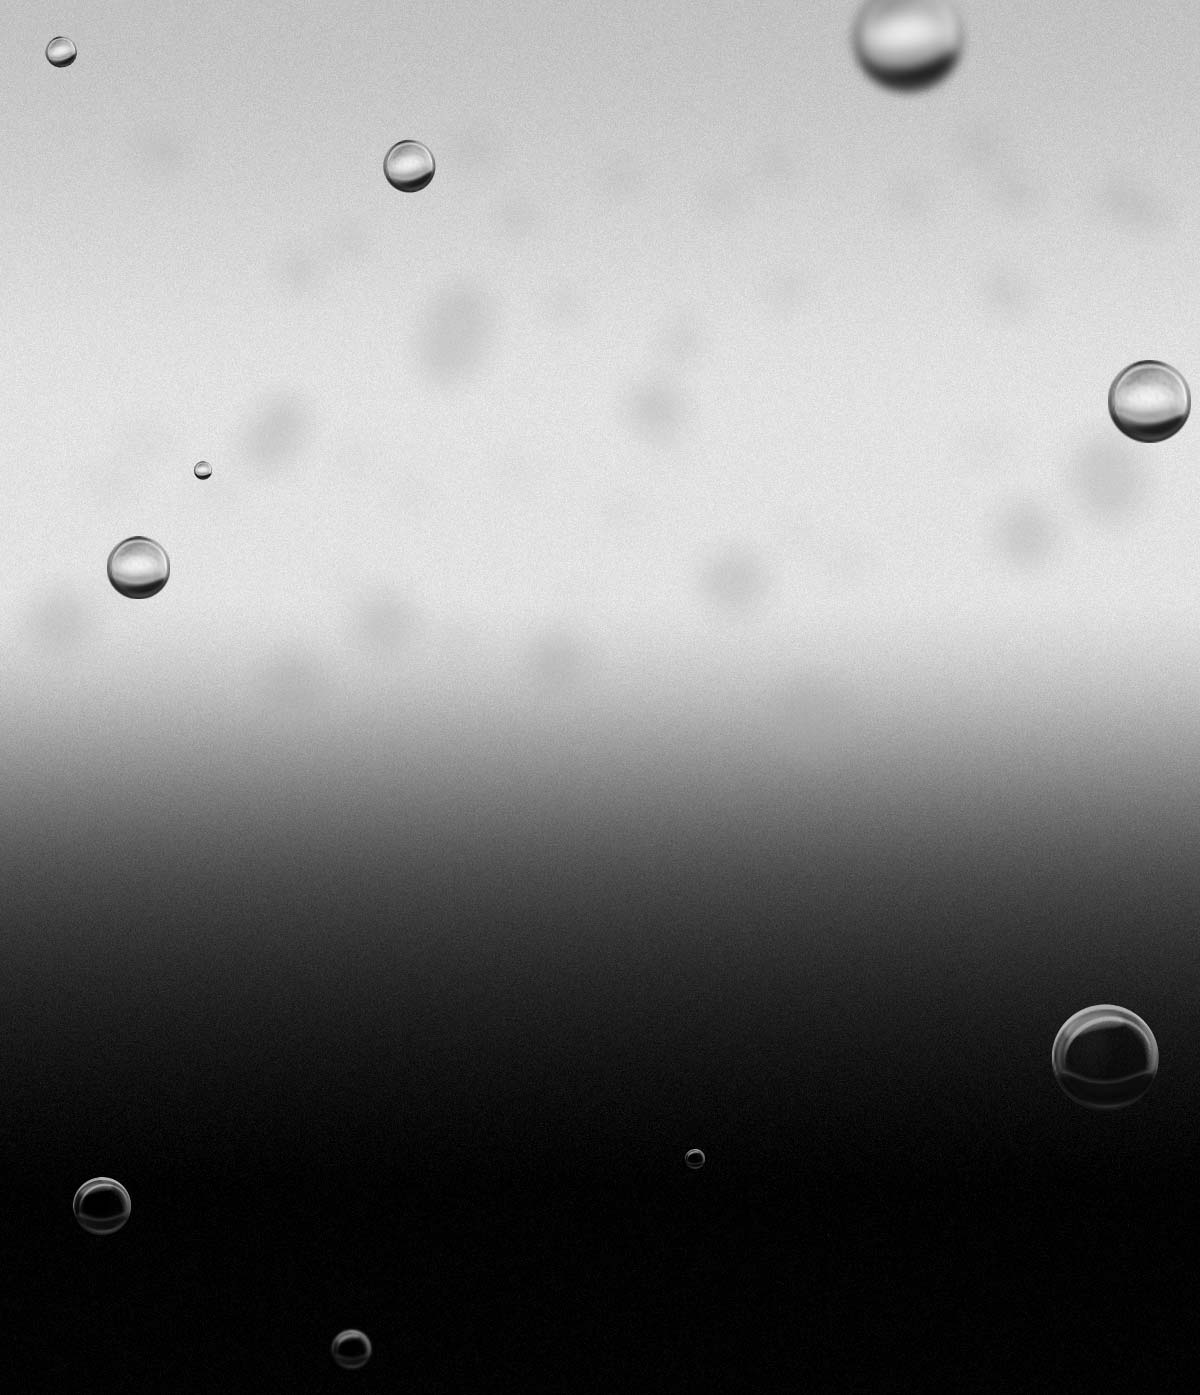
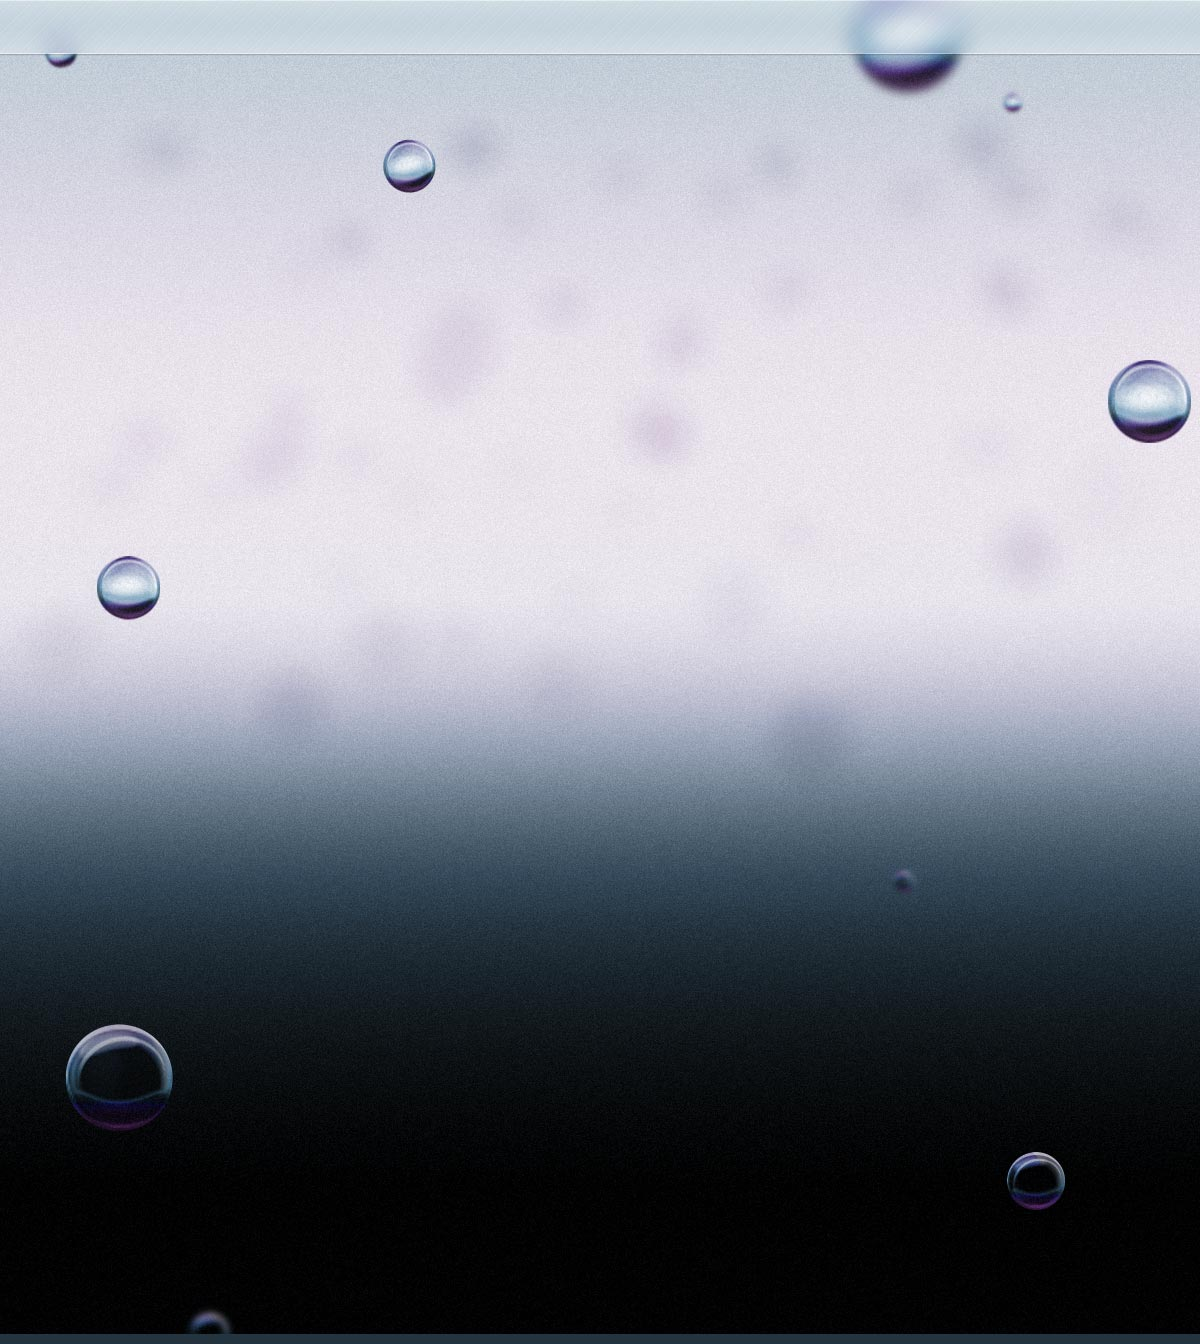
Update screenshots background and reposition layout for responsive design

diff --git a/css/main.css b/css/main.css
@@ -12,7 +12,6 @@ body {
 }
 
 #container {
-    background: url('../images/screenshots-bg.jpg') center top repeat-x transparent;
     overflow: hidden;
 }
 
@@ -130,7 +129,15 @@ img {
 
 .screenshots {
     text-align: center;
-    padding-top: 160px;
+    background: url('../images/screenshots-bg.jpg') center top repeat-x transparent;
+}
+
+.screenshots .content {
+    padding: 110px 0 0 0;
+}
+
+.screenshots img {
+    margin: -1% 0 -2.5% 0;
 }
 
 .screenshots h2 {
@@ -138,25 +145,18 @@ img {
     width: 199px;
     height: 55px;
     margin: 0 auto;
-    position: relative;
-    top: 10px;
     border: 0;
     font: 0/0 a;
     text-shadow: none;
     color: transparent;
 }
 
-.screenshots h2.soda-light {
+.screenshots .soda-light h2 {
     background-image: url('../images/soda-light-heading.png');
 }
 
-.screenshots h2.soda-dark {
+.screenshots .soda-dark h2 {
     background-image: url('../images/soda-dark-heading.png');
-    margin-top: -30px;
-}
-
-.screenshots .content {
-    padding: 0;
 }
 
 /* Bubbles */

diff --git a/index.html b/index.html
@@ -21,10 +21,14 @@
 
     <div class="screenshots">
         <div class="content">
-            <h2 class="soda-light">Soda Theme: Soda Light</h2>
-            <img src="images/soda-light-screenshot.png" alt="Soda Theme: Soda Light - Screenshot">
-            <h2 class="soda-dark">Soda Theme: Soda Dark</h2>
-            <img src="images/soda-dark-screenshot.png" alt="Soda Theme: Soda Dark - Screenshot">
+            <div class="soda-light">
+                <h2>Soda Theme: Soda Light</h2>
+                <img src="images/soda-light-screenshot.png" alt="Soda Theme: Soda Light - Screenshot">
+            </div>
+            <div class="soda-dark">
+                <h2>Soda Theme: Soda Dark</h2>
+                <img src="images/soda-dark-screenshot.png" alt="Soda Theme: Soda Dark - Screenshot">
+            </div>
             <div class="bubble b1"></div>
             <div class="bubble b2"></div>
         </div>
